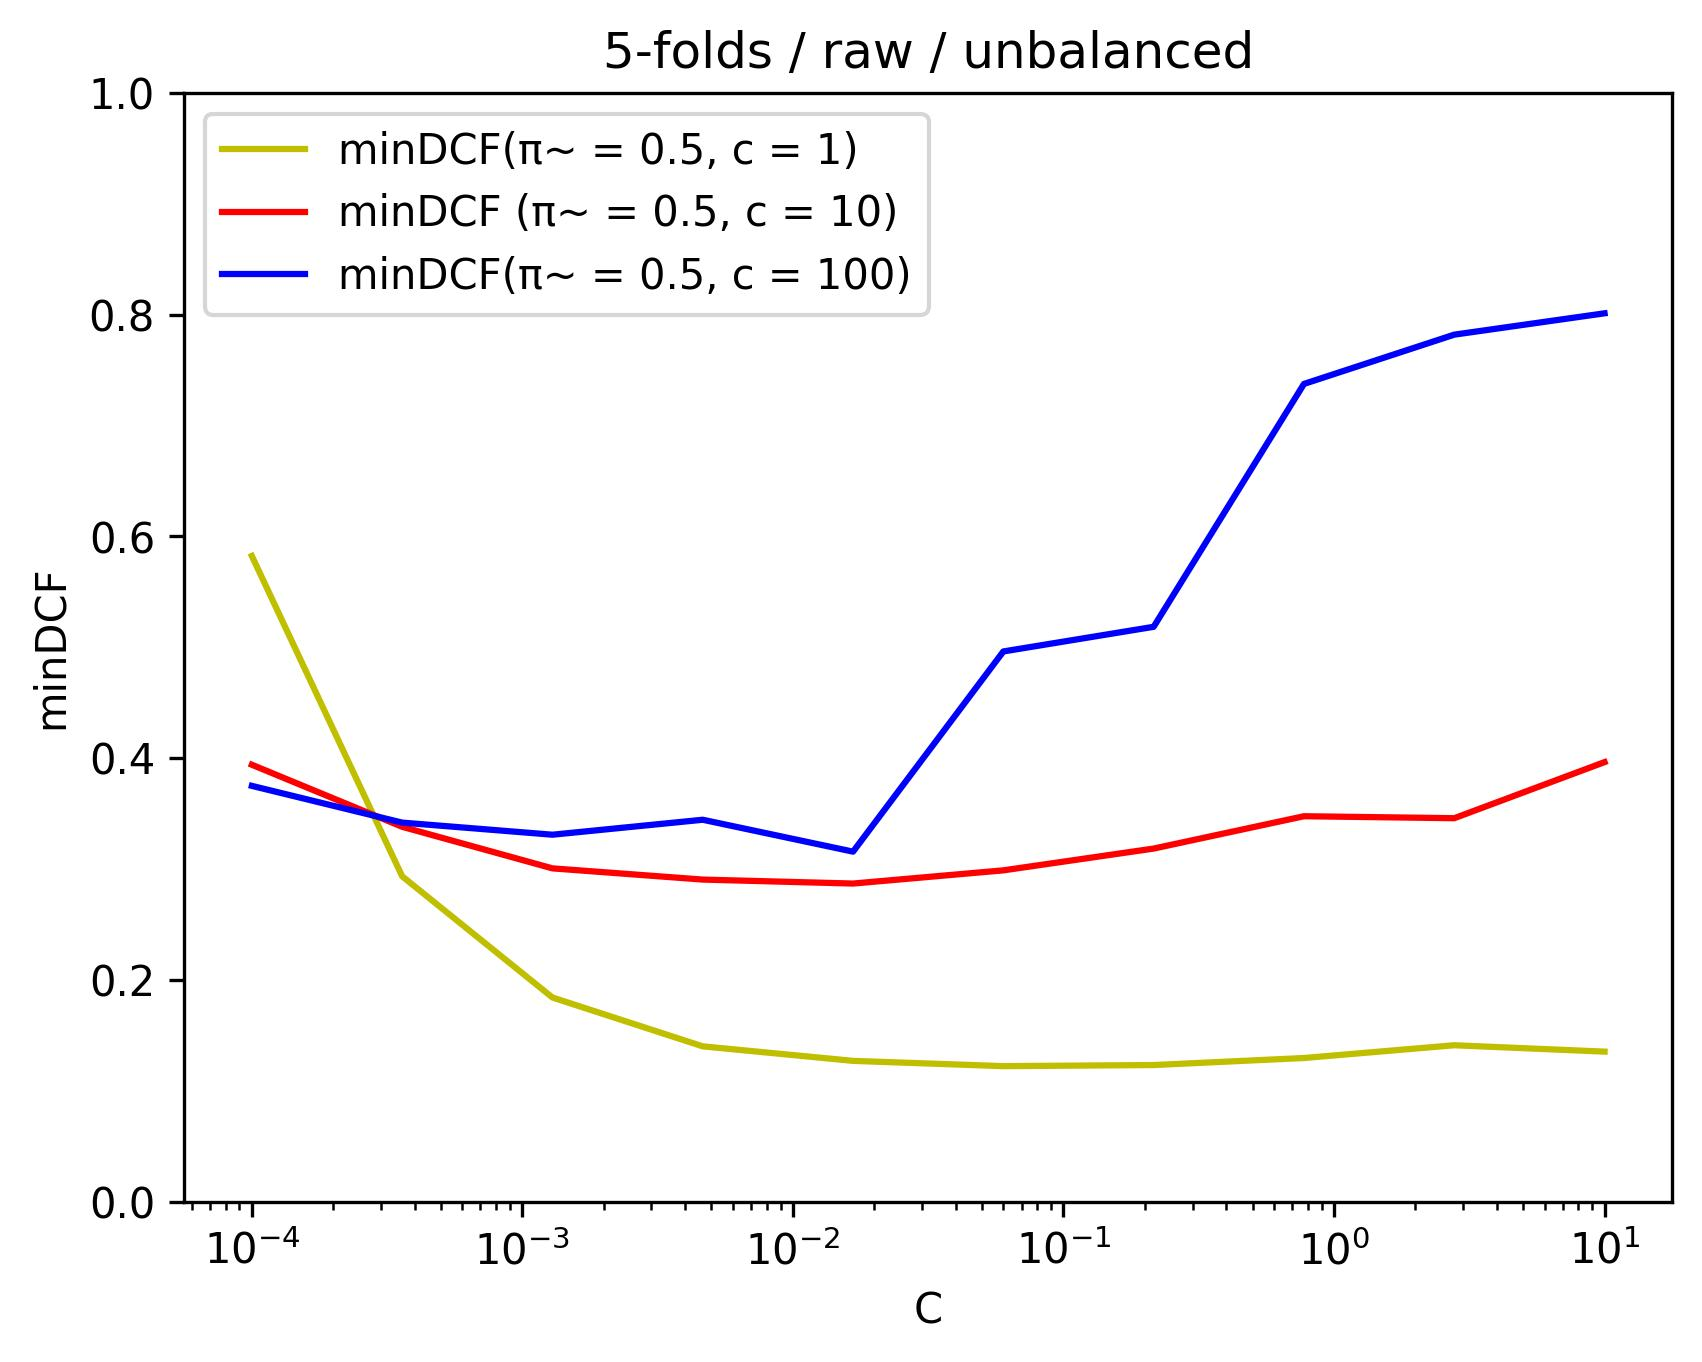
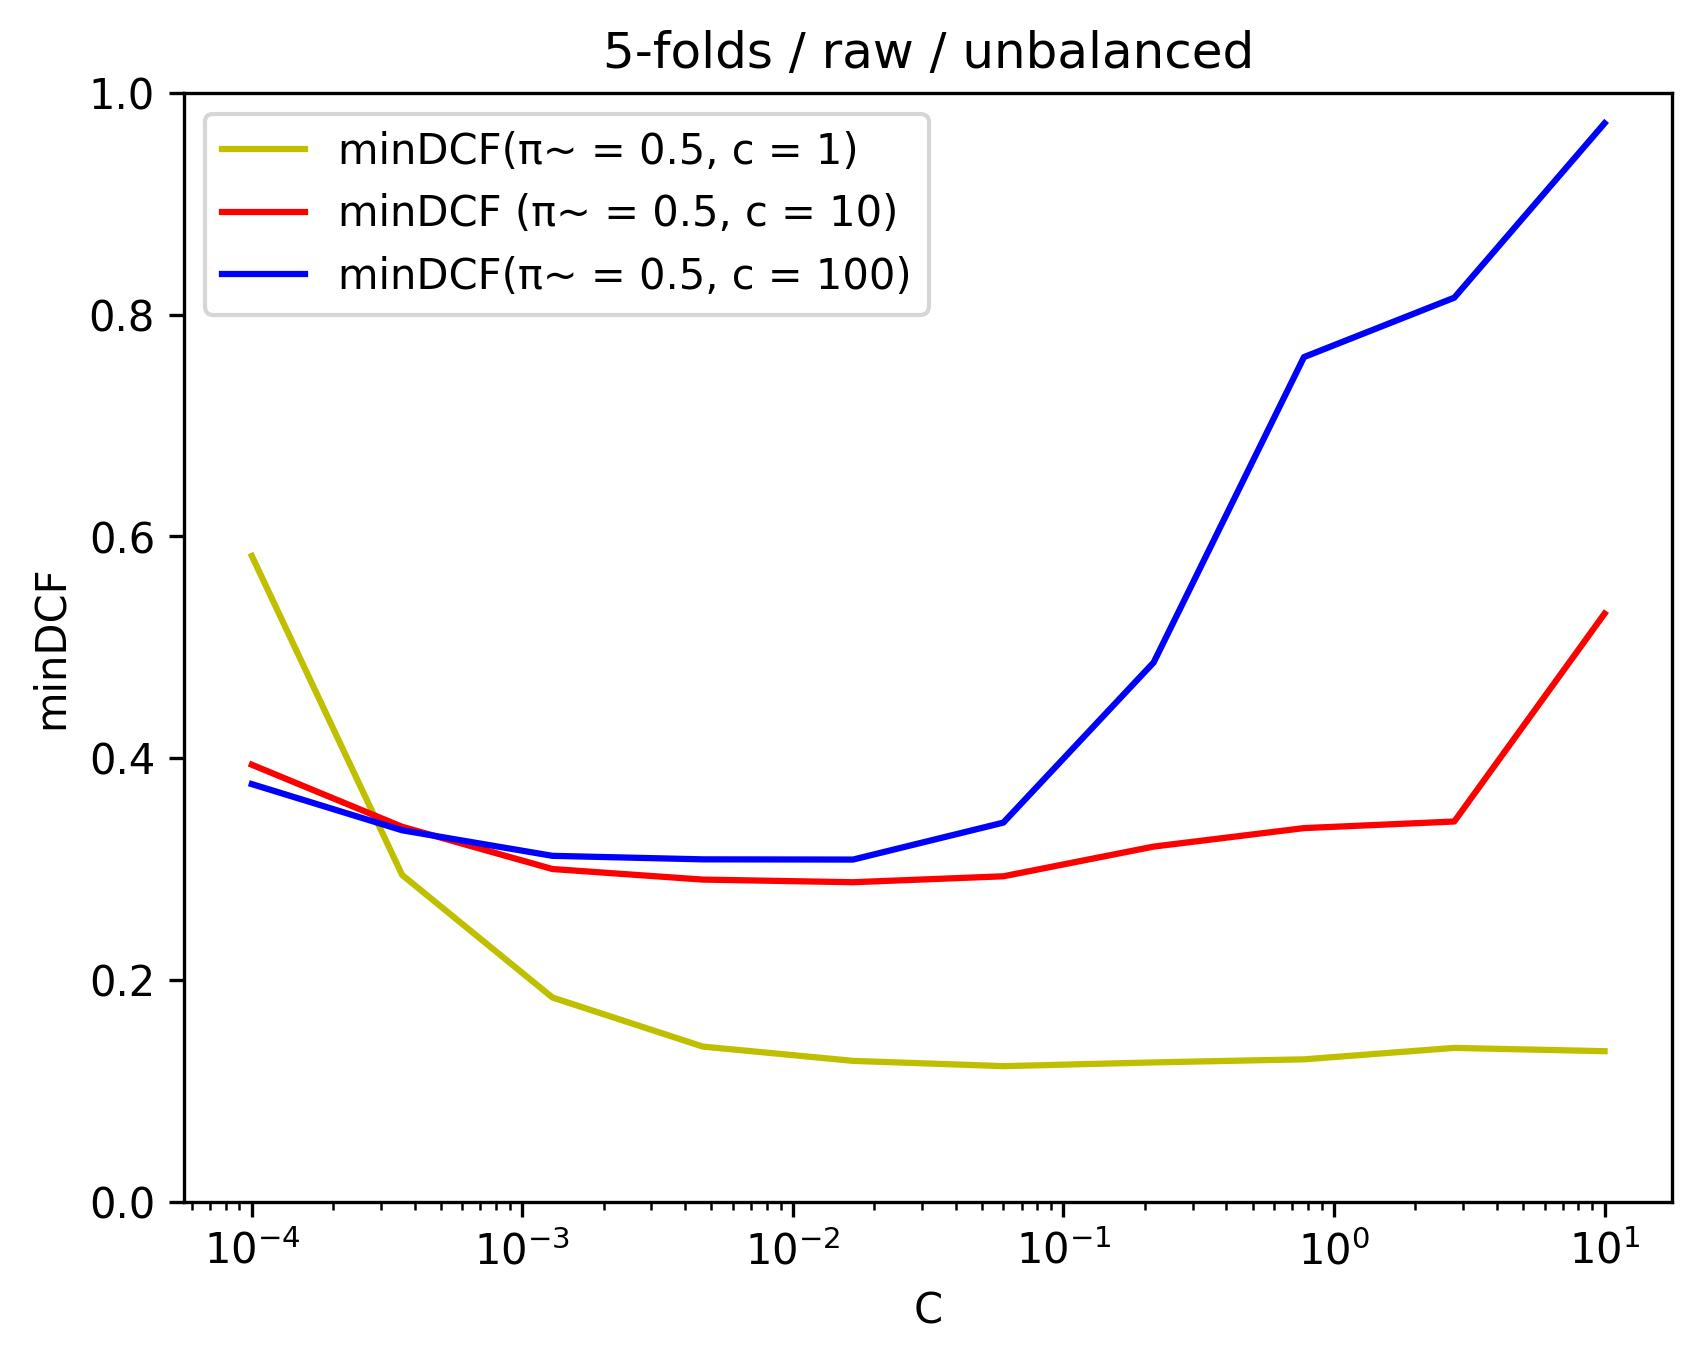
Scatters

diff --git a/code/main.py b/code/main.py
@@ -293,7 +293,7 @@ def quadratic_svm_report(data_train, labels_train):
     data_trainpca = data_train
     print("Plotting minDCF graphs ...")
     C = numpy.logspace(-4, 1, 10)
-    for i in range(2):  # raw, pca7
+    for i in range(2):
         y5, y1, y9 = [], [], []
         title = "raw"
         if i > 0:
@@ -337,7 +337,7 @@ def quadratic_svm_report(data_train, labels_train):
             f"5-folds / {title} / unbalanced",
             type="poly",
         )
-    for i in range(2):  # raw, pca7
+    for i in range(2):
         y5, y1, y9 = [], [], []
         title = "raw"
         if i > 0:
@@ -384,29 +384,31 @@ def quadratic_svm_report(data_train, labels_train):
         )
     print("Done.")
     print("# # 5-folds")
-    for i in range(2):  # raw, pca7
+    for i in range(2):
         print(f"# PCA m = {data_train.shape[0] - i}" if i > 0 else "# RAW")
         if i > 0:
             PCA_ = utils.PCA(data_train, data_train.shape[0] - i)
             data_trainpca = PCA_[0]
-        print("RBF SVM(C = 1e-1, γ = 1e-3)")
+        elif i == 0:
+            data_trainpca = data_train
+        print("RBF SVM(C = 1e1, γ = 1e-3)")
         for prior in priors:
             minDCF = utils.kfolds(
                 data_trainpca,
                 labels_train,
                 prior,
                 model,
-                ("RBF", priors[0], False, 1, 1e-1, 0, 0, 1e-3),
+                ("RBF", priors[0], False, 1, 1, 0, 0, 1e-3),
             )[0]
             print(f"- with prior = {prior} -> minDCF = %.3f" % minDCF)
-        print("Poly SVM(C = 1e-3, c = 1, d = 2)")
+        print("Poly SVM(C = 1e-1, c = 1, d = 2)")
         for prior in priors:
             minDCF = utils.kfolds(
                 data_trainpca,
                 labels_train,
                 prior,
                 model,
-                ("poly", priors[0], False, 1, 1e-3, 1, 2, 0),
+                ("poly", priors[0], False, 1, 1e-1, 1, 2, 0),
             )[0]
             print(f"- with prior = {prior} -> minDCF = %.3f" % minDCF)
     print("\n\n")
@@ -496,8 +498,8 @@ if __name__ == "__main__":
     #plot_features(data_train, labels_train)
     #gaussian_classifier_report(data_train, labels_train)
     #logistic_regression_report(data_train, labels_train)
-    linear_svm_report(data_train, labels_train)
-    #quadratic_svm_report(data_train, labels_train)
+    #linear_svm_report(data_train, labels_train)
+    quadratic_svm_report(data_train, labels_train)
     #gmm_report(data_train, labels_train)
     #utils.plot_LDA(data_train, labels_train)
     #utils.plot_scatter(data_train, labels_train)
